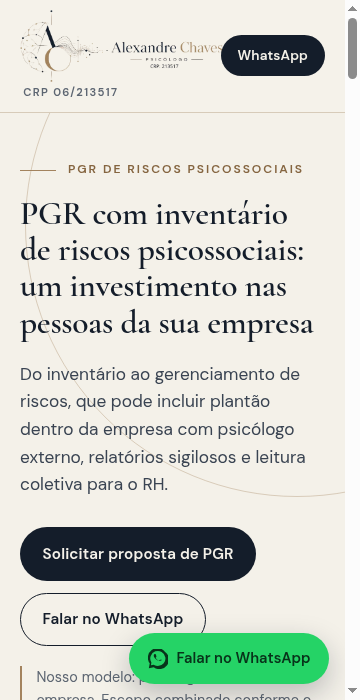
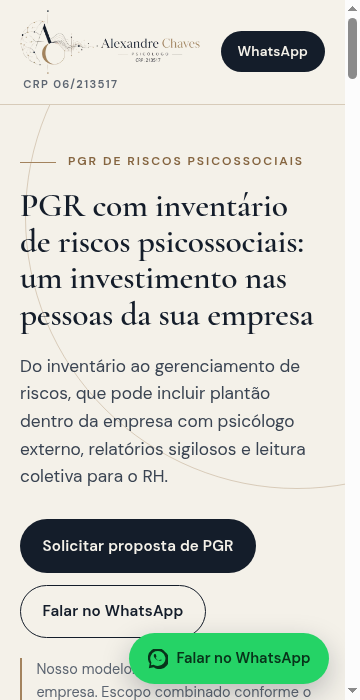
WhatsApp de Empresas e formulario pendente

diff --git a/index.html b/index.html
@@ -506,7 +506,7 @@
           <h2 id="form-title">Solicite uma proposta de PGR</h2>
           <p class="form-intro">Conte um pouco sobre a sua empresa. O escopo é combinado conforme o que a empresa contratar. Respondemos pelo contato que você informar.</p>
 
-          <div class="form-success" id="form-success" role="status" aria-live="polite">Pedido recebido, obrigado! Vamos falar com você pelo contato informado.</div>
+          <div class="form-success" id="form-success" role="status" aria-live="polite">Formulário em teste: o envio ainda não está ativo (destino pendente). Para falar agora, use o botão de WhatsApp.</div>
 
           <form id="lead-form" novalidate>
             <input type="hidden" name="utm_source" id="utm_source" value="">
@@ -602,7 +602,7 @@
     // ============================================================
     // CONSTANTES A PREENCHER (também visíveis no rodapé)
     // ============================================================
-    var WHATSAPP_EMPRESAS = "[PREENCHER: WhatsApp de Empresas]";
+    var WHATSAPP_EMPRESAS = "5519996328300";
     var URL_POLITICA = "[PREENCHER: URL da política de privacidade]";
 
     var WA_MSG = "Olá! Vim pela página do PGR e quero entender como funciona na minha empresa.";
